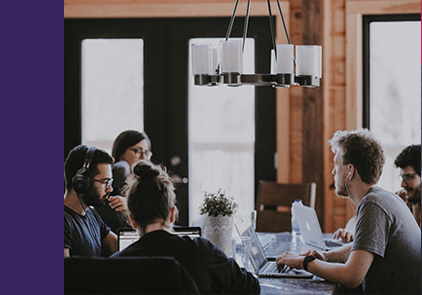
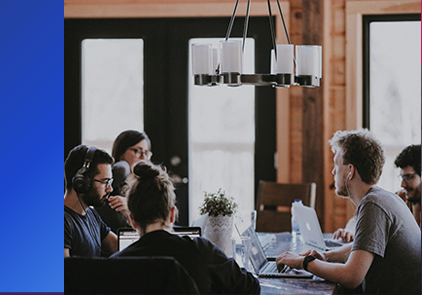
add changes

Changed region(s): [[0.0, 0.0, 0.154, 1.0]]

diff --git a/2023/index.html b/2023/index.html
@@ -92,9 +92,18 @@
                             <div class="row">  
 									<div class="spacer-half sm-hide"></div>
                                     <div class="spacer-double sm-hide"></div>
-                                    <h1 class="big">Цифровизация инженерного образования</h1>
-                                    <div class="spacer-single"></div>
-                                    <h2 class="big">&#8545; Всероссийская онлайн-конференция</h2>
+                                    <div style="display: flex; justify-content: space-between;">
+                                        <h2 class="big">&#8545; Всероссийская онлайн-конференция</h2>
+                                        <div style="display: flex; flex-direction: column; align-items: end;">
+                                            <h1>11-13 апреля</h1><h2 class="big">Ижевск</h2>
+                                        </div>
+                                    </div>
+                                    <div style="display: flex; align-items: end;"><h1 class="ultra-big"><b>Ц</b></h1><h1 class="big">ифровизация</h1></div>
+                                    <div style="display: flex; align-items: end;"><h1 class="ultra-big"><b>И</b></h1><h1 class="big">нженерного</h1></div>
+                                    <div style="display: flex; align-items: end;"><h1 class="ultra-big"><b>О</b></h1><h1 class="big">бразования</h1></div>
+                                    
+                                    
+                                    
                                     <div class="spacer-single"></div>
                                     <div class="spacer-single"></div>
                                     <div class="spacer-single"></div>
@@ -296,7 +305,7 @@
                                                         <div class="schedule-item" data-toggle="collapse" data-parent="#accordion" href="#day1_11">
                                                             <div class="sc-time">11:00 - 13:00<br>(МСК)</div>
                                                             <div class="sc-info">
-                                                                <h3>Секция <br>Работодатель и вуз: цифровое взаимодействие</h3>
+                                                                <h3>Секция <br><b>Работодатель и вуз: цифровое взаимодействие</b></h3>
                                                             </div>
                                                             <div class="sc-more mr10">
                                                               
@@ -374,7 +383,7 @@
                                                         <div class="schedule-item" data-toggle="collapse" data-parent="#accordion" href="#day1_12">
                                                             <div class="sc-time">13:00 - 15:00<br>(МСК)</div>
                                                             <div class="sc-info">
-                                                                <h3>Секция<br>Цифровая повестка в образовании</h3>
+                                                                <h3>Секция<br><b>Цифровая повестка в образовании: сетевое взаимодействие и индивидуальные траектории панельная дискуссия</b></h3>
                                                             </div>
                                                             <div class="sc-more mr10">
                                                               
@@ -445,7 +454,7 @@
                                                             <div class="sc-time">09:00 - 11:00<br>(МСК)</div>
                                                             <div class="sc-info">
                                                                 
-                                                                <h3>Панельная дискуссия<br>Перезагрузка системы ДПО: цифровой прорыв</h3>
+                                                                <h3>Панельная дискуссия<br><b>Перезагрузка системы ДПО: цифровой прорыв</b></h3>
                                                             </div>
                                                             <div class="sc-more mr10">
                                                               
@@ -490,7 +499,7 @@
                                                         <div class="schedule-item" data-toggle="collapse" data-parent="#accordion2" href="#day2_11">
                                                             <div class="sc-time">11:00 - 13:00<br>(МСК)</div>
                                                             <div class="sc-info">
-                                                                <h3>Круглый стол<br>Проектная деятельность в разрезе молодёжного технологического предпринимательства</h3>
+                                                                <h3>Круглый стол<br><b>Проектная деятельность в разрезе молодёжного технологического предпринимательства</b></h3>
                                                             </div>
                                                             <div class="sc-more mr10">
                                                               
@@ -571,7 +580,7 @@
                                                         <div class="schedule-item" data-toggle="collapse" data-parent="#accordion2" href="#day2_12">
                                                             <div class="sc-time">13:00 - 15:00<br>(МСК)</div>
                                                             <div class="sc-info">
-                                                                <h3>Секция<br>Молодежная политика в ООВО</h3>
+                                                                <h3>Секция<br><b>Молодежная политика в ООВО</b></h3>
                                                             </div>
                                                             <div class="sc-more mr10">
                                                               
@@ -691,7 +700,7 @@
                                                         <div class="schedule-item" data-toggle="collapse" data-parent="#accordion3" href="#day3_10">
                                                             <div class="sc-time">09:00 - 11:00<br>(МСК)</div>
                                                             <div class="sc-info">
-                                                                <h3>Круглый стол<br>Использование российского программного обеспечения для решения вопроса импортонезависимости в сфере ИТ</h3>
+                                                                <h3>Круглый стол<br><b>Использование российского программного обеспечения для решения вопроса импортонезависимости в сфере ИТ</b></h3>
                                                             </div>
                                                             <div class="sc-more mr10">
                                                               
@@ -753,7 +762,7 @@
                                                         <div class="schedule-item" data-toggle="collapse" data-parent="#accordion3" href="#day3_11">
                                                             <div class="sc-time">11:00 - 13:00<br>(МСК)</div>
                                                             <div class="sc-info">
-                                                                <h3>Панельная онлайн-дискуссия<br>Водоемы данных</h3>
+                                                                <h3>Панельная онлайн-дискуссия<br><b>Водоемы данных</b></h3>
                                                             </div>
                                                             <div class="sc-more mr10">
                                                               
@@ -833,8 +842,8 @@
                                                         <div class="schedule-item" data-toggle="collapse" data-parent="#accordion3" href="#day3_12">
                                                             <div class="sc-time">13:00 - 15:00<br>(МСК)</div>
                                                             <div class="sc-info">
-                                                                <h3>Круглый стол<br>Обучение глухих и слабослышащих: будущее жестового языка в эпоху цифровизации</h3>
-                                                                <h4><b>Цель мероприятия:</b> обмен опытом в обучении студентов с нарушением слуха с использования ИТ, привлечение внимания к проблеме цифровой инклюзии для глухих и слабослышащих студентов</h4>
+                                                                <h3>Круглый стол<br><b>Обучение глухих и слабослышащих: будущее жестового языка в эпоху цифровизации</b></h3>
+                                                                <h4><i>обмен опытом в обучении студентов с нарушением слуха с использования ИТ, привлечение внимания к проблеме цифровой инклюзии для глухих и слабослышащих студентов</i></h4>
                                                             </div>
                                                             <div class="sc-more mr10">
                                                               
@@ -847,8 +856,8 @@
 
                                                             <div class="schedule-item">
                                                                 <div class="sc-info"><h3>Обсуждаемые вопросы</h3></div>
-                                                                <div class="col-md-6 text-left wow ml20">
-                                                                    <h4><i class="icon-aperture mb10 size15 "></i> Сетевое взаимодействие вузов через сервисы онлайн-образования</h4>
+                                                                <div class="col-md-12 text-left wow ml20">
+                                                                    <h4><i class="icon-aperture mb10 size15"></i> Сетевое взаимодействие вузов через сервисы онлайн-образования</h4>
                                                                     <h4><i class="icon-aperture mb10 size15 "></i> Использование и развитие платформ для цифрового образования</h4>
                                                                     <h4><i class="icon-aperture mb10 size15 "></i> Особенности международного взаимодействия участников образовательного процесса</h4>
                                                                     <h4><i class="icon-aperture mb10 size15 "></i> Особенности создания цифрового контента для технических вузов</h4>

diff --git a/2023/css/bg.css b/2023/css/bg.css
@@ -7,10 +7,10 @@ background-size: 100%;
 }
 
 /* background settings for section */
-#section-intro {background:url(../images/background/1.jpg) fixed;}
-#section-fun-facts {background:url(../images/background/2.jpg) fixed;}
-#section-schedules {background:url(../images/background/2.jpg) fixed;}
-#section-register {background:url(../images/background/2.jpg) fixed; }
+#section-intro {background:url(../images/background/1.png) fixed;}
+#section-fun-facts {background:url(../images/background/2.png) fixed;}
+#section-schedules {background:url(../images/background/2.png) fixed;}
+#section-register {background:url(../images/background/2.png) fixed; }
 
 /* background settings for footer */
 footer{
@@ -18,7 +18,7 @@ footer{
 -moz-background-size: 100%;
 -o-background-size: 100%;
 background-size: 100%;
-background:url(../images/background/2.jpg) fixed;
+background:url(../images/background/2.png) fixed;
 }
 
 /* media query */

diff --git a/2023/css/style.css b/2023/css/style.css
@@ -5173,7 +5173,7 @@ footer .widget_list li a {
 .schedule-item .sc-name {
 	font-weight: normal;
 	font-size: 14px;
-	width: 30%;
+	width: 50%;
 }
 .schedule-item .sc-name h4 {
 	font-size: 14px;
@@ -5199,7 +5199,7 @@ footer .widget_list li a {
 	font-size:18px !important;
 	margin-bottom: 10px;
 	line-height: 1.4em;
-	font-weight:bold;
+	/* font-weight:bold; */
 }
 .schedule-item .sc-info span {
 	font-size:14px !important;
